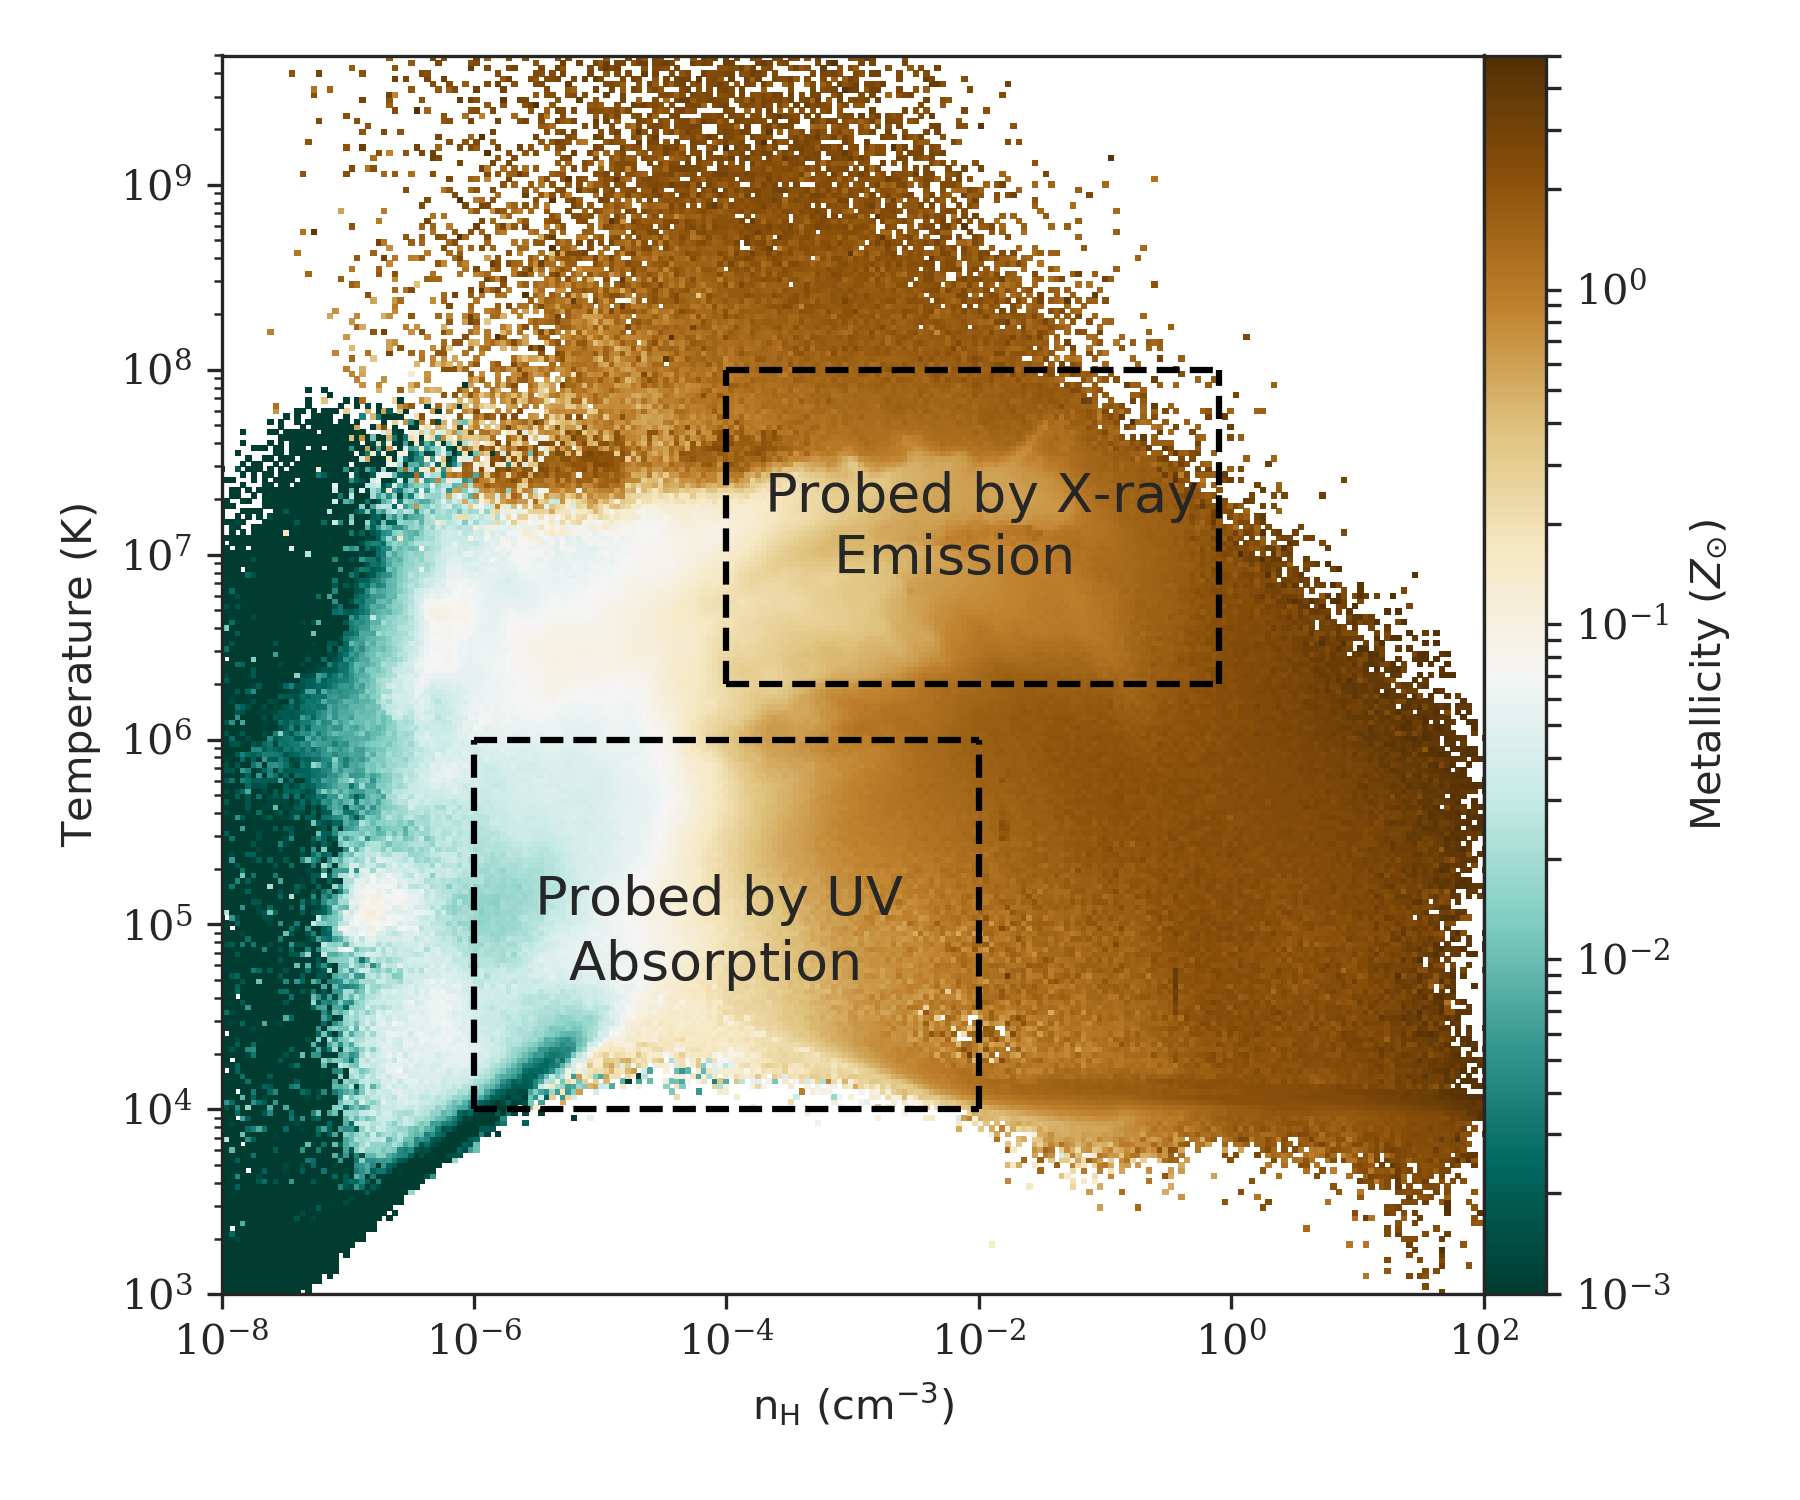
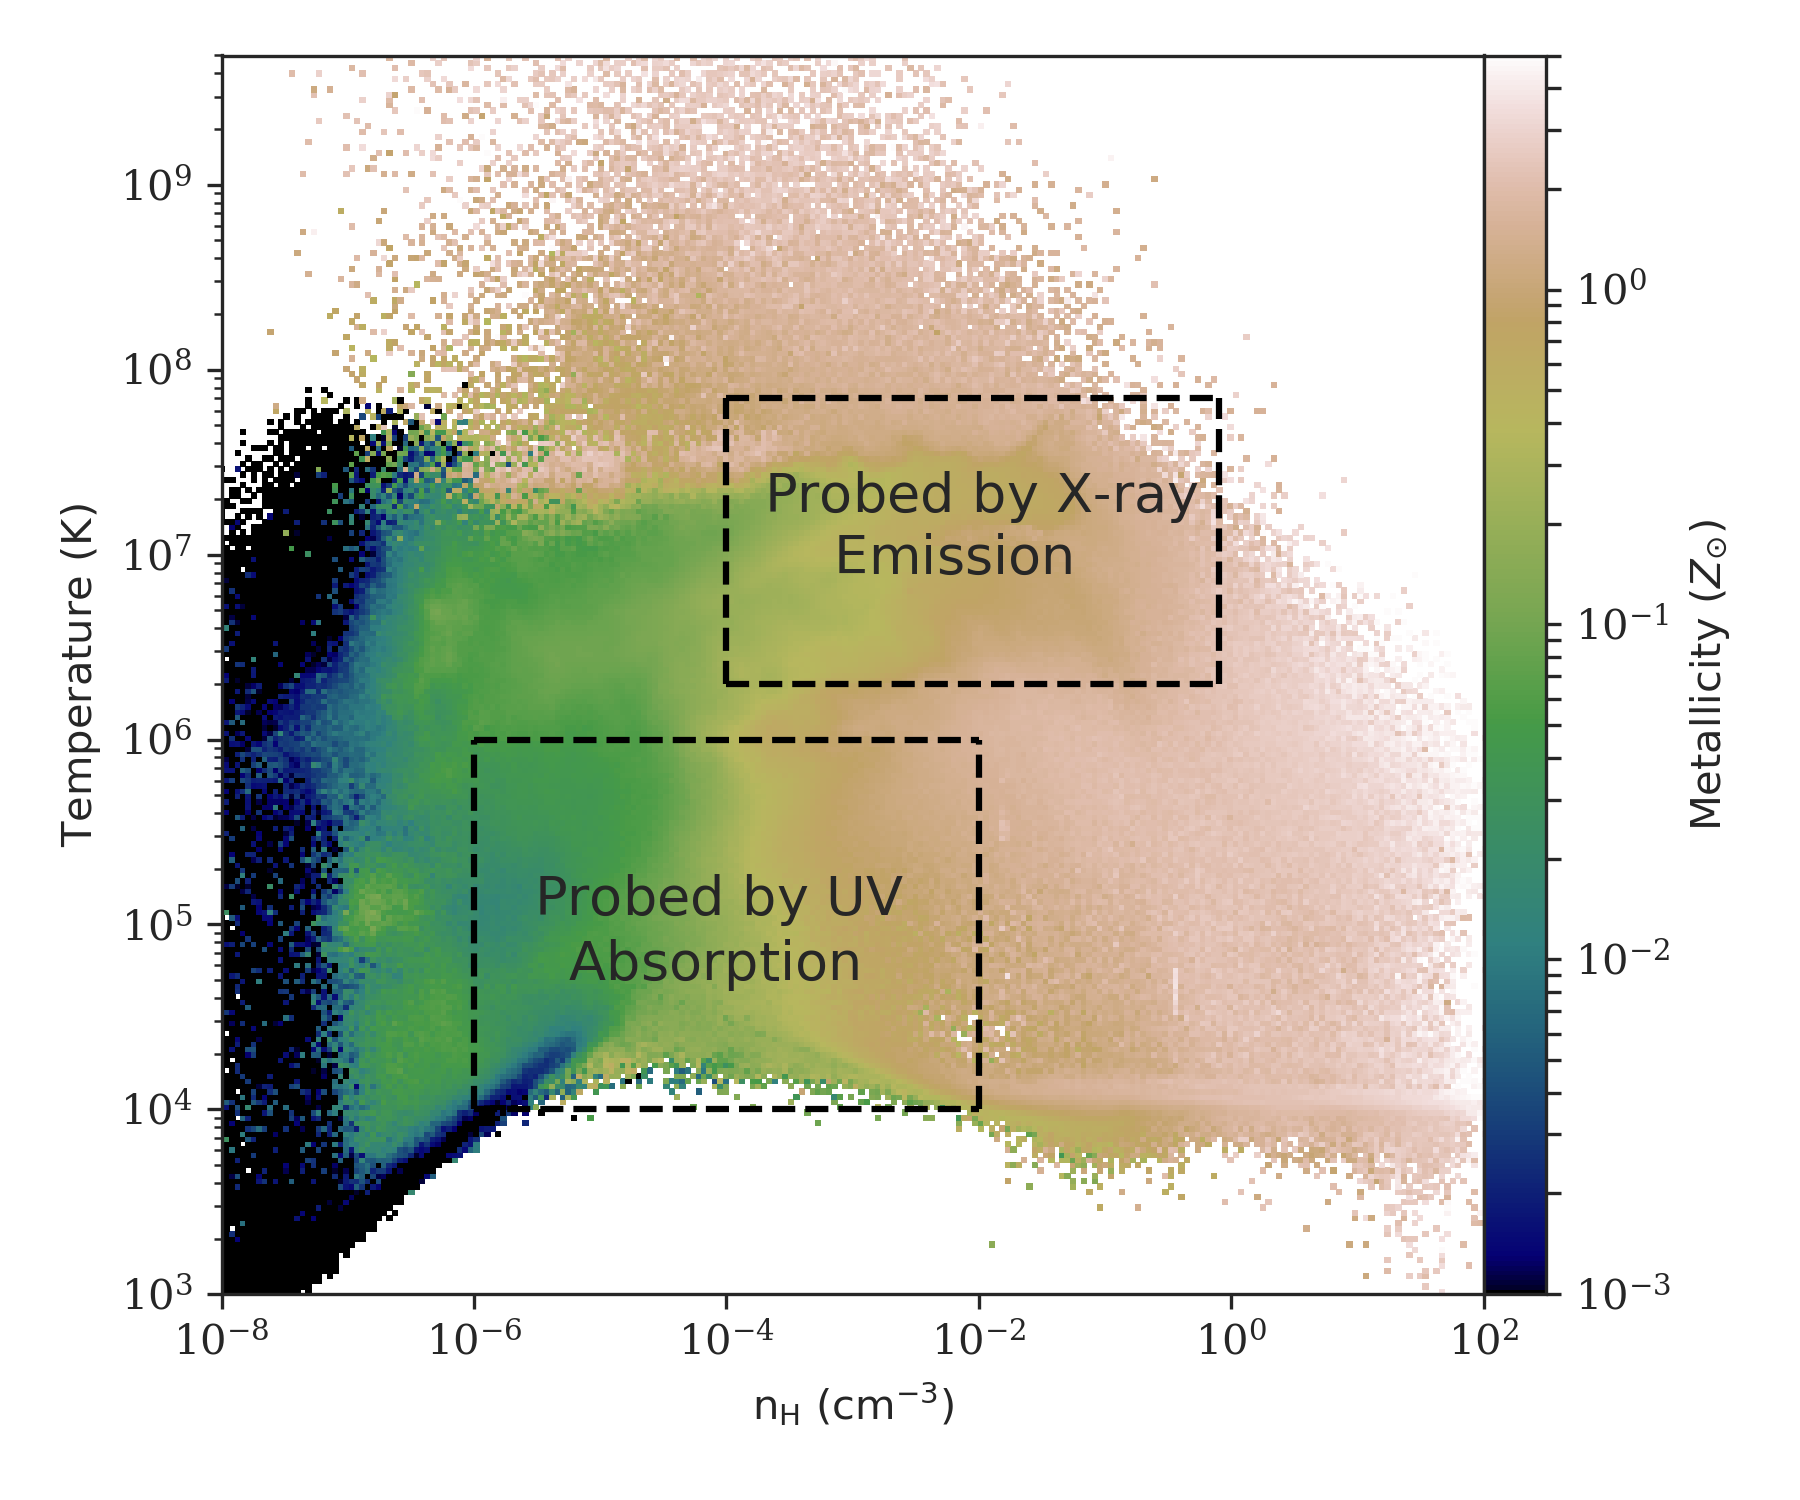
changing metallicity colormap

diff --git a/plot_multipanel_romulusC.py b/plot_multipanel_romulusC.py
@@ -25,10 +25,10 @@ field_list = [('gas', 'density'), ('Gas', 'Temperature'), ('Gas', 'metallicity2'
               ('gas', 'xray_intensity_0.5_7.0_keV'), ('gas', 'O_p5_number_density'), \
               ('gas', 'H_p0_number_density')]
 #cmap_list = ['magma', 'afmhot', 'Blues_r','bone',  'dusk', 'purple_mm']
-cmap_list = ['magma', 'afmhot', 'BrBG_r','bone',  'dusk', 'purple_mm']
-
+cmap_list = ['magma', 'afmhot', 'gist_earth','bone',  'dusk', 'purple_mm']
+#BrBG_r
 #zlim_list = [(1e-30, 1e-25), (1e5, 1e8), (5e-3, 5), (1e-21, 1e-15), (1e13, 1e15), (3e12, 1e17)] 
-zlim_list = [(1e-30, 1e-25), (1e5, 1e8), (2e-3, 2), (1e-21, 1e-15), (1e13, 1e15), (3e12, 1e17)]
+zlim_list = [(1e-30, 1e-25), (1e5, 1e8), (1e-3, 1), (1e-21, 1e-15), (1e13, 1e15), (3e12, 1e17)]
 
 
 cbar_title_list =[r'$\mathrm{Density}\ (\mathrm{g\ cm^{-3}})$', \

diff --git a/plot_phase_plot.py b/plot_phase_plot.py
@@ -111,7 +111,9 @@ xlim = (1e-8, 1e2)
 ylim = (1e3, 5e9)
 zlim = (1e-3, 5)
 cmap = 'BrBG_r'
-
+cmap = 'cubehelix'
+cmap = 'gist_earth'
+#cmap = 'cividis'
 fig, ax, im, cbar = plot_phase(xfield, yfield, zfield, xlabel = xlabel, ylabel = ylabel, xlim = xlim, \
                      ylim = ylim, zlim = zlim, cbar_label = cbar_label,  cmap = cmap)
 
